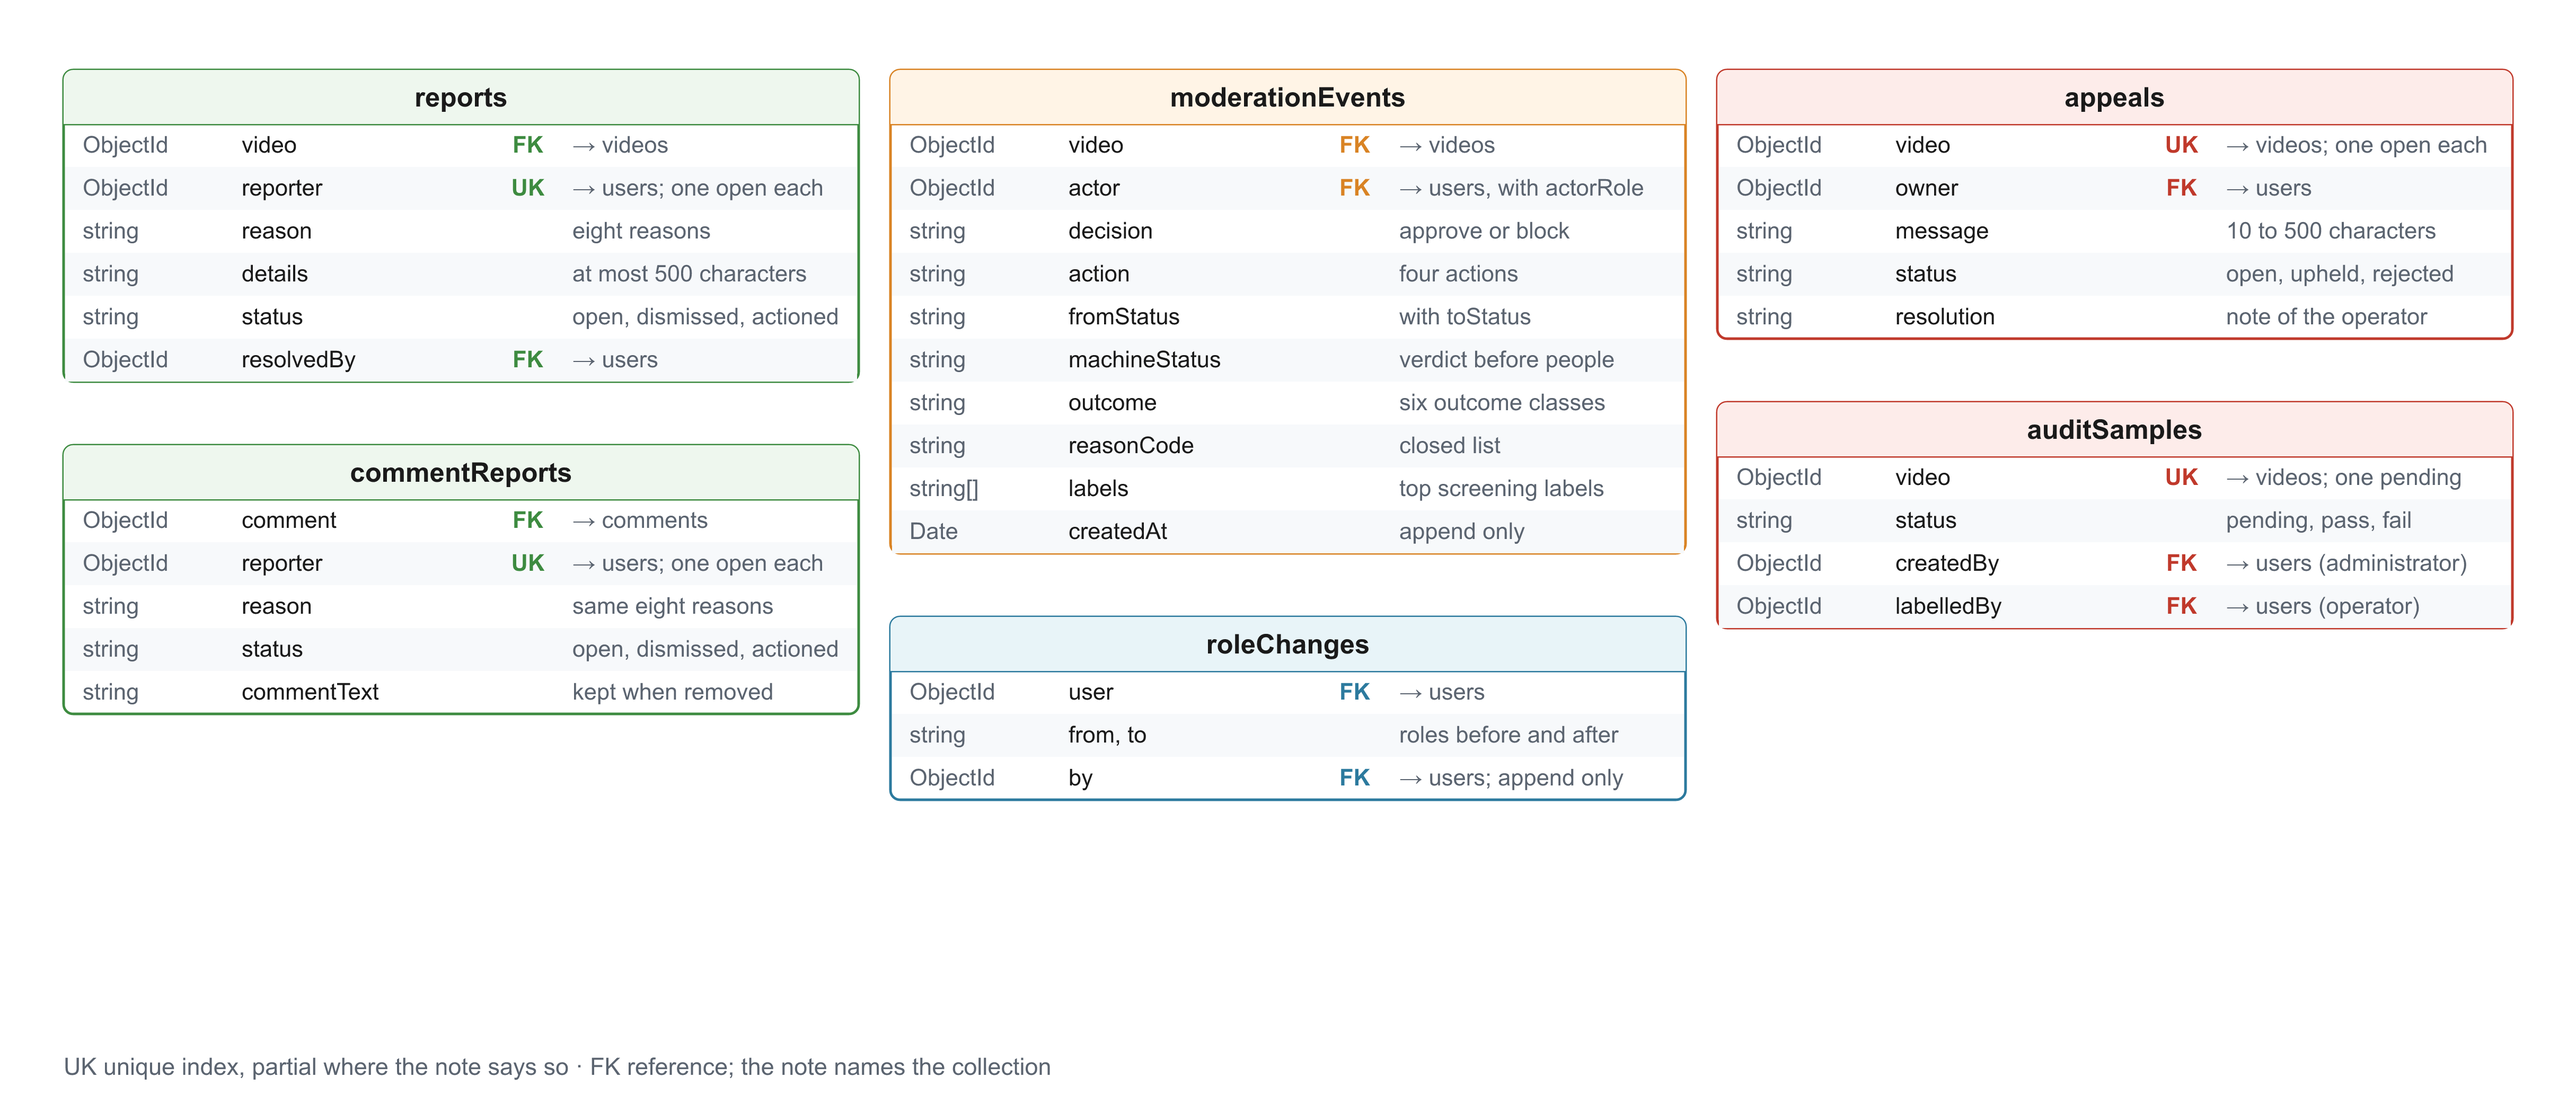
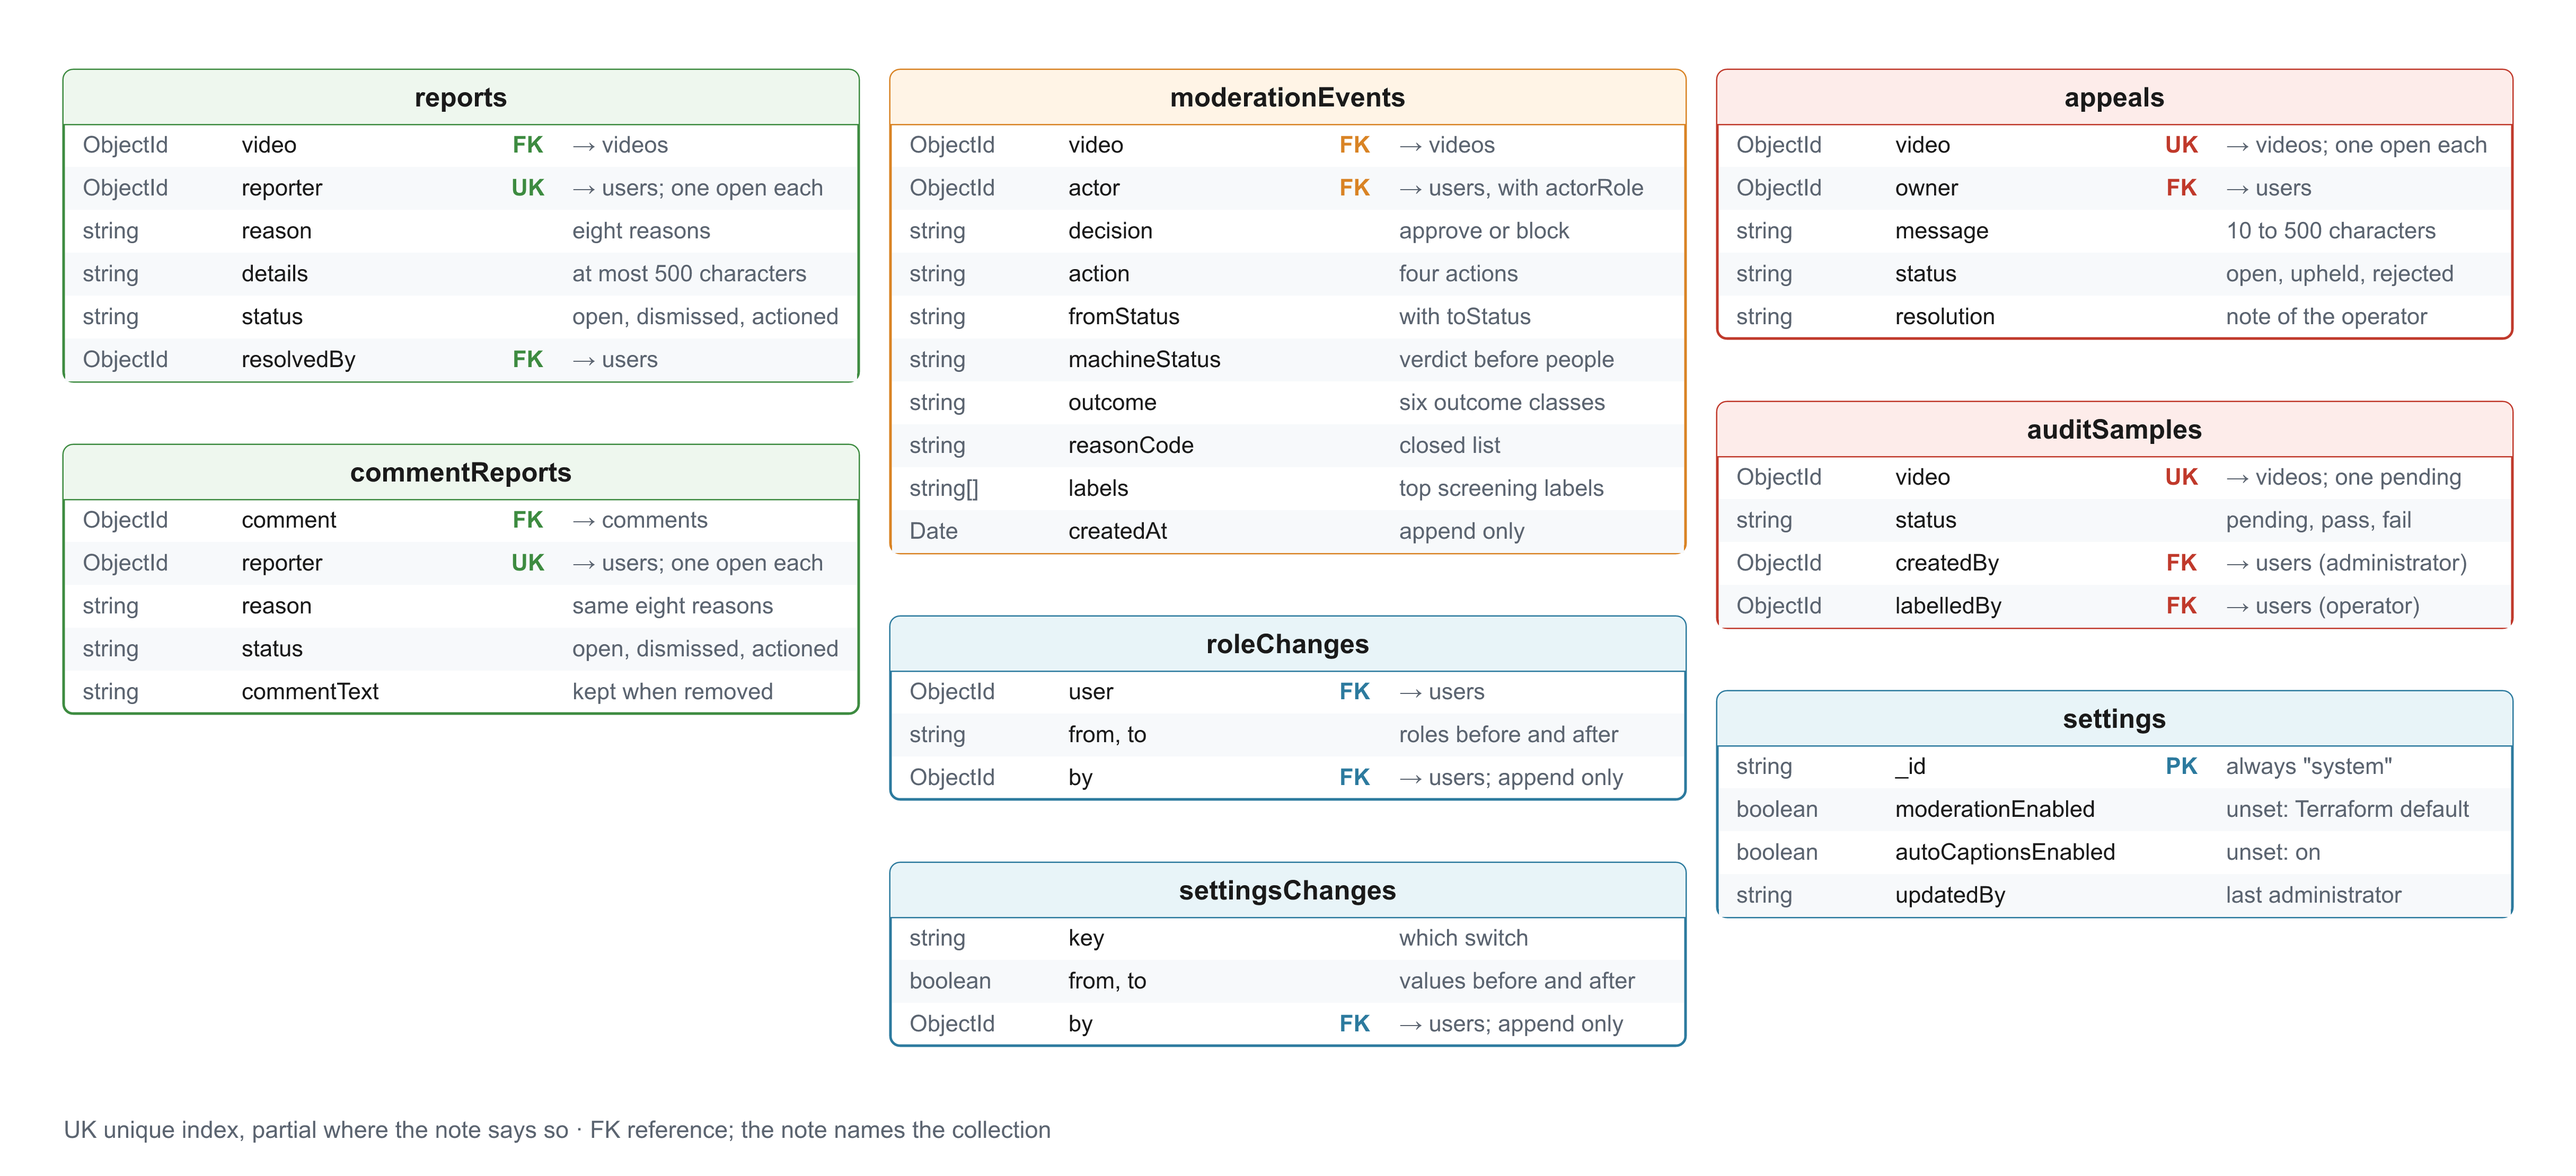
docs(report): design the overview and the runtime switches in chapter 4

diff --git a/report/chapters/chap4.tex b/report/chapters/chap4.tex
@@ -518,9 +518,10 @@ which Unicode folding leaves alone, so that a query typed without Vietnamese mar
 video. Queries tolerate one or two typing errors and filter on visibility, status and moderation
 inside the index, so private, unready or removed videos never appear in results.
 
-Figure~\ref{fig:moderation-erd} shows the six collections of moderation. Two of them are
-append-only logs, the moderation events and the role changes: the API inserts into them and never
-updates them, which is what lets an auditor trust them.
+Figure~\ref{fig:moderation-erd} shows the eight collections of moderation and operation. Three of
+them are append-only logs, the moderation events, the role changes and the changes of the runtime
+switches: the API inserts into them and never updates them, which is what lets an auditor trust
+them. The switches themselves are one document, \name{settings/system}.
 
 % Xoay ngang: đặt vừa bề rộng vùng chữ thì chữ dưới 6,2pt khi in.
 \begin{sidewaysfigure}
@@ -559,7 +560,7 @@ Channels & \mbox{\texttt{/channels/:ref}}: profile, videos, subscription, member
 Studio & thumbnail, captions, chapters, schedule, analytics, avatar, banner, tiers, members & The owner \\
 Plans & \mbox{\texttt{/plans}}; \mbox{\texttt{/billing}}: state, checkout, portal, webhook & Plans public; billing signed in; webhook signed by Stripe \\
 Library & \mbox{\texttt{/me}}: history, progress, feed, playlists, notifications, subscriptions & Signed in \\
-Moderation & report and appeal a video; \mbox{\texttt{/admin}}: queue, decisions, comment reports, appeals, audit, metrics, events, users, roles & Viewers; staff by permission \\
+Moderation & report and appeal a video; \mbox{\texttt{/admin}}: queue, decisions, comment reports, appeals, audit, metrics, events, users, roles, overview, settings & Viewers; staff by permission \\
 \bottomrule
 \end{tabularx}
 \end{table}
@@ -605,7 +606,10 @@ position.
 
 The staff console is part of the same application, and a person sees only the tabs their role's
 permissions allow: the review queue, removed videos, reported comments, appeals, audit samples,
-the rates, the event log and the users. An operator never sees the rates, and an auditor never sees
+the rates, the event log and the users, and for an administrator also an overview of the platform
+and the switches of the services billed per use (FR-27, FR-28). The overview counts users, plans,
+videos, screening outcomes, caption minutes and views from the documents on request, and draws one
+bar chart per day with the same numbers as a table. An operator never sees the rates, and an auditor never sees
 a decision button. Thumbnails of videos under review stay blurred until a reviewer reveals them, so
 that reading the queue does not by itself expose staff to the content.
 
@@ -651,6 +655,8 @@ moderation:sample & Draw audit samples & administrator \\
 metrics:read, events:read & Error rates, decision log, role changes & administrator, auditor \\
 users:manage & Users and roles & administrator \\
 content:viewRemoved & Open removed and held videos & administrator, operator \\
+system:read & Overview of users, plans, content and views & administrator \\
+settings:manage & Switch screening and automatic captions & administrator \\
 \bottomrule
 \end{tabularx}
 \end{table}
@@ -703,6 +709,16 @@ video with violence that may stay is published behind a warning that the viewer 
 fails closed: when no frame, or less than 80\% of the planned frames, could be analysed, the video is
 held for review rather than published. Avatars, banners and custom thumbnails pass through the same
 policy and are refused on any relevant label.
+
+Screening is billed per frame, so an administrator can switch it for new videos in the staff
+console, as for automatic captions (Section~\ref{sec:captions-design}). The switch lives in the
+database, and the processing containers hold no database credentials, so they never read it:
+\name{MarkProcessing} reads it when the workflow starts and the state machine passes it to the
+\name{analyse} job as an environment value that overrides the one of the job definition. A change
+therefore applies to the videos that start processing after it, and without a stored value the
+default set by Terraform applies. A video processed with screening off is published as approved
+with the source \name{disabled}, so it never enters the error rates of
+Section~\ref{sec:review-design}; viewers can still report it and operators still decide on it.
 
 \subsection{Review, Appeals and Audit}
 \label{sec:review-design}
@@ -845,7 +861,8 @@ if the total stays within the plan, so the database itself decides which of two 
 succeeds. A job that fails gives its seconds back. The reservation counts at least fifteen seconds
 per video, the minimum that Transcribe bills. Videos without sound, sources over the 2~GB that
 Transcribe accepts, and videos that the owner has already captioned are skipped before anything is
-reserved, so they cost nothing.
+reserved, so they cost nothing. Before any of these checks the function reads the switch that an
+administrator sets in the staff console; when it is off, no job starts and nothing is reserved.
 
 \section{Performance and Scalability}
 \label{sec:performance-design}
